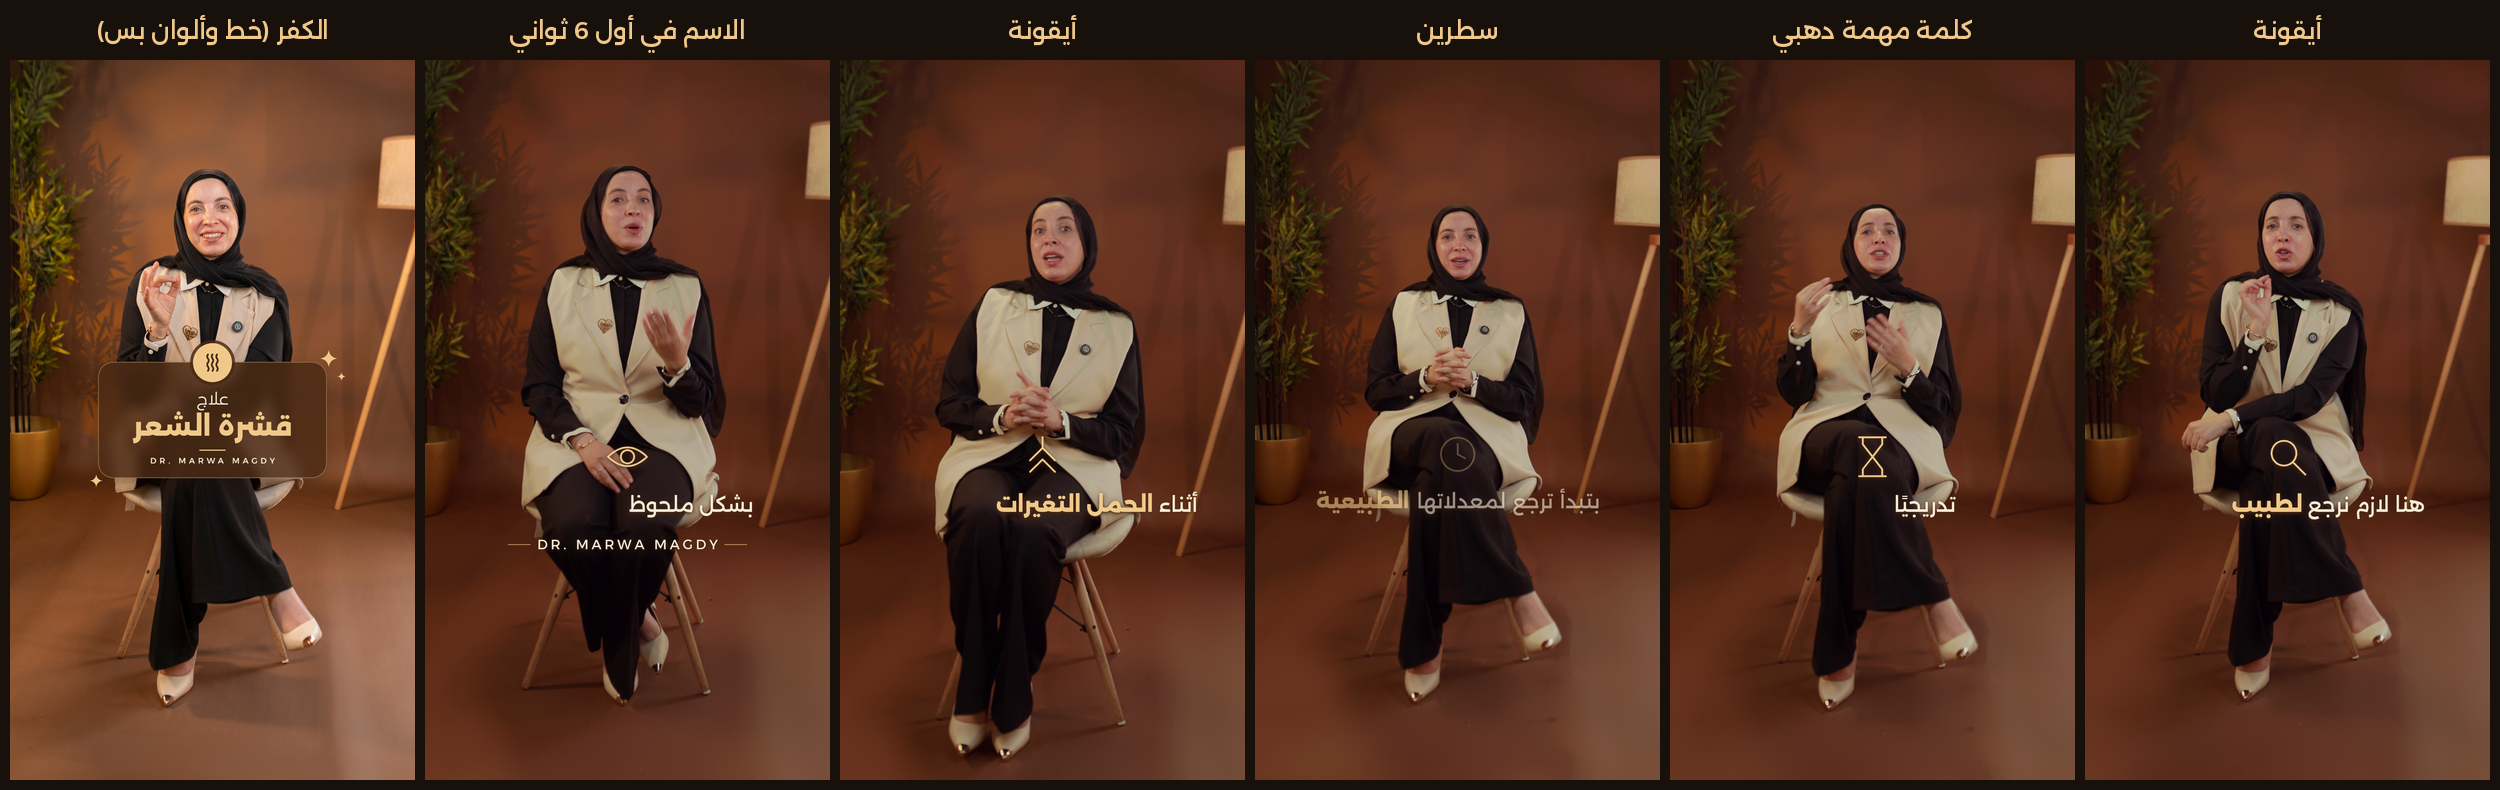
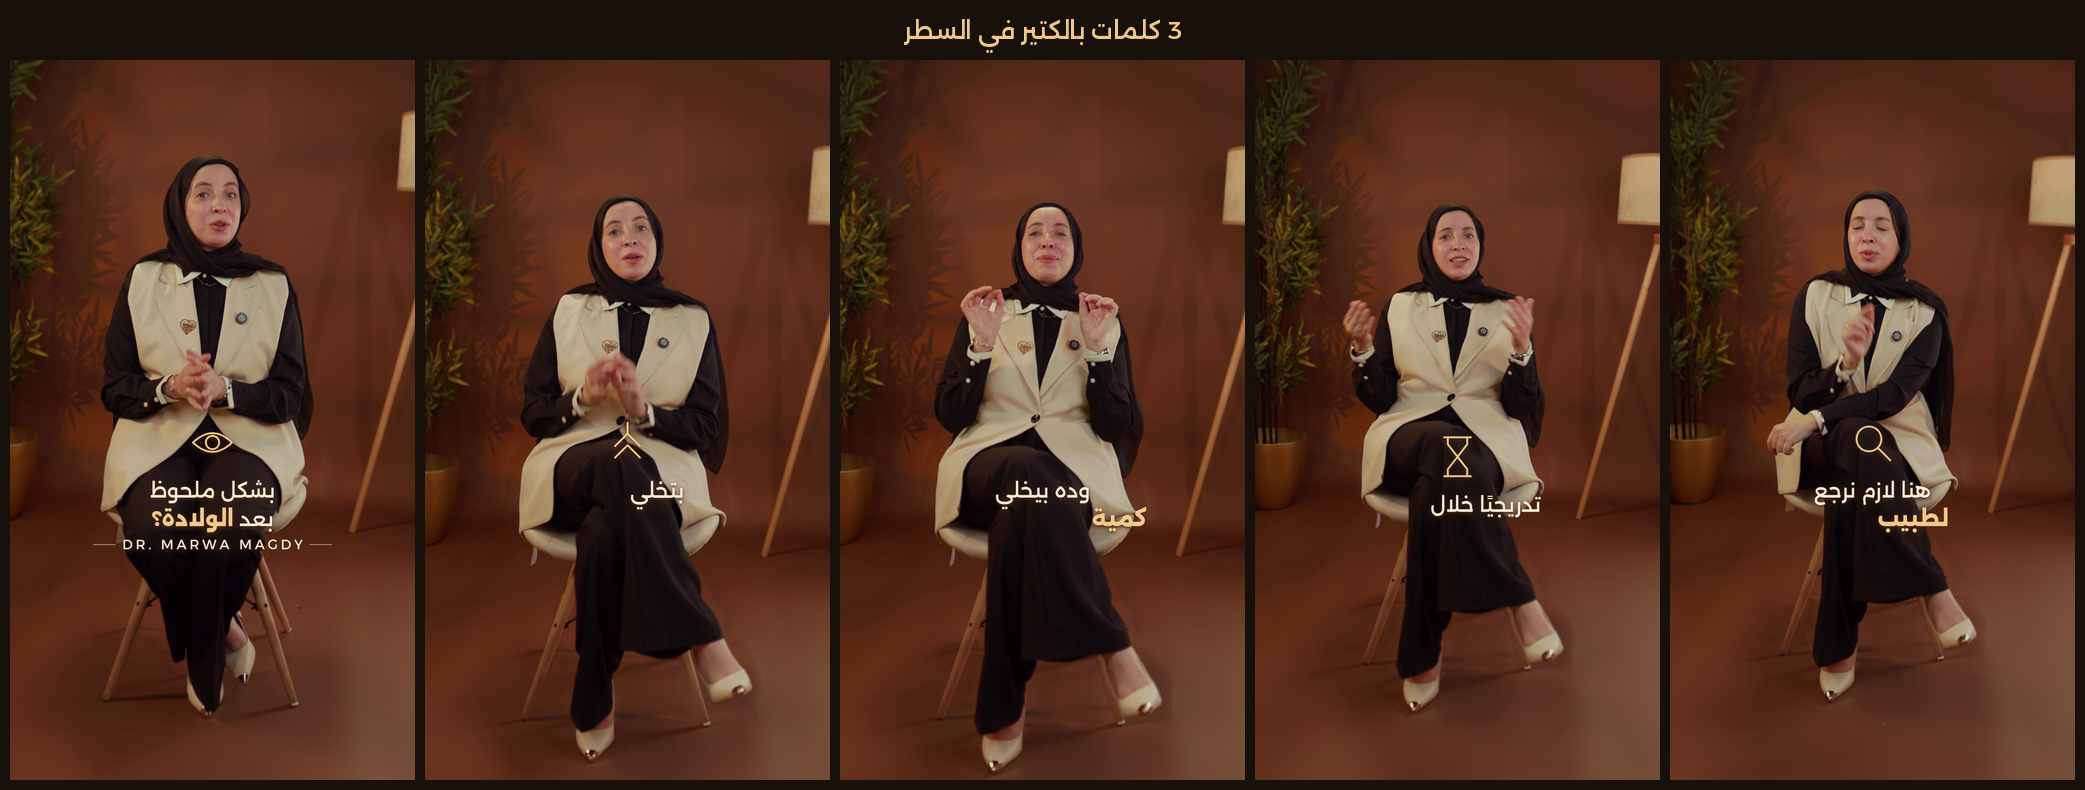
Captions: max words/width per line option; folder 3 uses 3 words per line
Claude-Session: https://claude.ai/code/session_01B2gFniZ6mm2ycwJxgsrrV1

diff --git a/.claude/skills/marwa-brown-close/scripts/render.py b/.claude/skills/marwa-brown-close/scripts/render.py
@@ -86,7 +86,8 @@ for c in chunks:
         w["im"],w["tw"],w["th"],w["bb"]=sprite(w["w"],w["g"])
     tot=sum(w["tw"] for w in c["words"])+sp*(len(c["words"])-1)
     lines=[c["words"]]
-    if getattr(CFG,"MAX_LINES",2)>1 and (len(c["words"])>=6 or tot>(BLOCK_W-2*BPADX if STYLE=="block" else 840)):
+    MLW=getattr(CFG,"MAX_LINE_W",BLOCK_W-2*BPADX if STYLE=="block" else 840); MWL=getattr(CFG,"MAX_WORDS_LINE",5)
+    if getattr(CFG,"MAX_LINES",2)>1 and (len(c["words"])>=6 or len(c["words"])>MWL or tot>MLW):
         best=None
         for k in range(1,len(c["words"])):
             a=sum(w["tw"] for w in c["words"][:k]); b=sum(w["tw"] for w in c["words"][k:])
